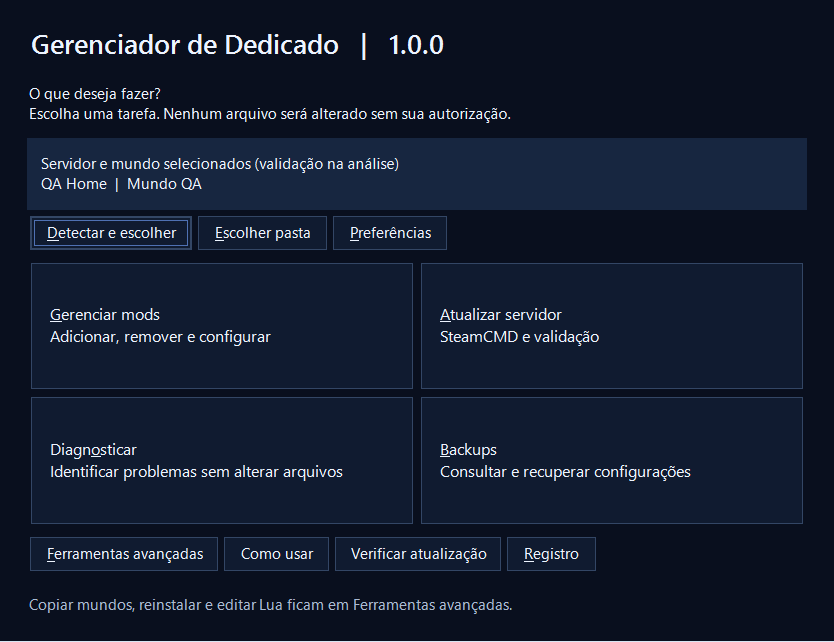
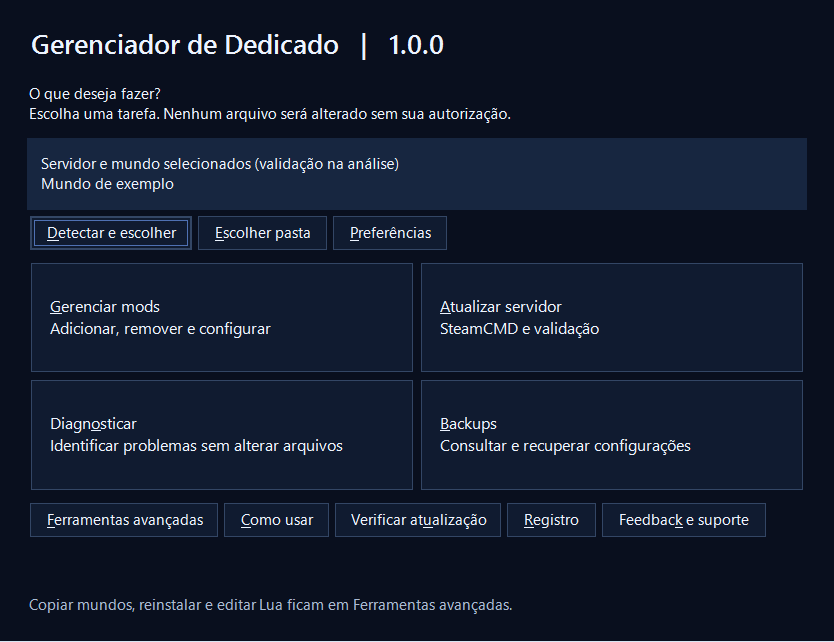
Publicar acessibilidade e feedback comunitário no site (#23)
* Prepare accessible support section and community forms

* Keep support links responsive and skip link keyboard-friendly

* Prepare release links for accessibility and feedback build

---------

diff --git a/docs/index.html b/docs/index.html
@@ -1,8 +1,8 @@
 <!doctype html>
 <html lang="pt-BR"><head><meta charset="utf-8"><meta name="viewport" content="width=device-width,initial-scale=1"><meta name="theme-color" content="#090f1e"><meta name="description" content="Gerenciador de Dedicado 1.0.0 — manutenção de mods de servidores DST para Windows."><title>Gerenciador de Dedicado — 1.0.0</title><link rel="icon" href="icon.svg" type="image/svg+xml"><link rel="stylesheet" href="style.css"></head><body>
-<a class="skip" href="#inicio">Ir para o conteúdo</a><header><div class="wrap nav"><a class="brand" href="#inicio"><img src="icon.svg" width="40" height="40" alt=""><span>Gerenciador de Dedicado<small>DON'T STARVE TOGETHER</small></span></a><nav aria-label="Navegação principal"><a href="#baixar">Download</a><a href="#recursos">Recursos</a><a href="#uso">Guia</a><a href="#faq">Dúvidas</a><a href="https://github.com/efac000/software-dedicado-">GitHub ↗</a></nav></div></header>
-<main id="inicio" class="wrap"><section class="hero"><div><p class="eyebrow">UTILITÁRIO PARA WINDOWS <span class="version">1.0.0</span></p><h1>Seu servidor.<br><span>Seu controle.</span></h1><p class="lead">Escolha uma tarefa para gerenciar mods, atualizar ou diagnosticar seu dedicado de Don't Starve Together. A interface é guiada, com backup e duas confirmações antes de alterações.</p><div class="buttons"><a class="button" href="#baixar">↓ Baixar aplicativo</a><a class="secondary" href="#uso">Como funciona</a></div><p class="muted">Código aberto · .NET autocontido · Windows</p></div>
-<figure class="preview home-preview"><div class="window"><img src="icon.svg" width="28" height="28" alt=""><b>Gerenciador de Dedicado</b><span>1.0.0</span></div><a href="home-dark.png" aria-label="Ampliar captura da tela inicial escura"><img class="app-shot" src="home-dark.png" width="834" height="642" alt="Tela inicial com detecção, seleção de mundo e quatro tarefas: gerenciar mods, atualizar servidor, diagnosticar e backups."></a><figcaption>Captura da interface em ambiente de teste. <a href="home-light.png">Ver tema claro</a></figcaption></figure></section>
+<a class="skip" href="#inicio">Ir para o conteúdo</a><header><div class="wrap nav"><a class="brand" href="#inicio"><img src="icon.svg" width="40" height="40" alt=""><span>Gerenciador de Dedicado<small>DON'T STARVE TOGETHER</small></span></a><nav aria-label="Navegação principal"><a href="#baixar">Download</a><a href="#recursos">Recursos</a><a href="#uso">Guia</a><a href="#feedback">Feedback</a><a href="#faq">Dúvidas</a><a href="https://github.com/efac000/software-dedicado-">GitHub ↗</a></nav></div></header>
+<main id="inicio" class="wrap" tabindex="-1"><section class="hero"><div><p class="eyebrow">UTILITÁRIO PARA WINDOWS <span class="version">1.0.0</span></p><h1>Seu servidor.<br><span>Seu controle.</span></h1><p class="lead">Escolha uma tarefa para gerenciar mods, atualizar ou diagnosticar seu dedicado de Don't Starve Together. A interface é guiada, com backup e duas confirmações antes de alterações.</p><div class="buttons"><a class="button" href="#baixar">↓ Baixar aplicativo</a><a class="secondary" href="#uso">Como funciona</a></div><p class="muted">Código aberto · .NET autocontido · Windows</p></div>
+<figure class="preview home-preview"><div class="window"><img src="icon.svg" width="28" height="28" alt=""><b>Gerenciador de Dedicado</b><span>1.0.0</span></div><a href="home-dark.png" aria-label="Ampliar captura da tela inicial escura"><img class="app-shot" src="home-dark.png" width="834" height="642" alt="Tela inicial com detecção, seleção de mundo, quatro tarefas de manutenção e botão Feedback e suporte."></a><figcaption>Captura da interface com dados ilustrativos. <a href="home-light.png">Ver tema claro</a></figcaption></figure></section>
 <div class="trust"><div><b>01</b> Análise sem alterações</div><div><b>02</b> Backup local</div><div><b>03</b> Confirmação dupla</div><div><b>04</b> Sem reinício automático</div></div>
 <section id="baixar" aria-labelledby="download-title">
   <div class="section-head">
@@ -13,18 +13,18 @@
     <div class="download-main">
       <span class="download-icon" aria-hidden="true">↓</span>
       <div><h3>Windows x64</h3><p>Para a maioria dos PCs Intel e AMD.</p></div>
-      <a id="download" class="button" href="https://github.com/efac000/software-dedicado-/releases/download/1.0.0-build-45679256458-1/Gerenciador-de-Dedicado.exe">Baixar Windows x64</a>
+      <a id="download" class="button" href="https://github.com/efac000/software-dedicado-/releases/download/1.0.0-build-45681754894-1/Gerenciador-de-Dedicado.exe">Baixar Windows x64</a>
     </div>
-    <p class="muted">Build 45679256458-1 — Tela inicial simplificada</p>
+    <p class="muted">Build 45681754894-1 — Acessibilidade e feedback comunitário</p>
     <p id="architecture-hint" class="muted" aria-live="polite">Escolha a arquitetura do seu Windows nas opções abaixo. Você pode conferi-la em Configurações &gt; Sistema &gt; Sobre.</p>
     <div class="alternatives">
       <span>Outras arquiteturas</span>
-      <a class="secondary" href="https://github.com/efac000/software-dedicado-/releases/download/1.0.0-build-45679256458-1/Gerenciador-de-Dedicado-x86.exe">Windows x86 · 32 bits</a>
-      <a class="secondary" href="https://github.com/efac000/software-dedicado-/releases/download/1.0.0-build-45679256458-1/Gerenciador-de-Dedicado-arm64.exe">Windows ARM64</a>
+      <a class="secondary" href="https://github.com/efac000/software-dedicado-/releases/download/1.0.0-build-45681754894-1/Gerenciador-de-Dedicado-x86.exe">Windows x86 · 32 bits</a>
+      <a class="secondary" href="https://github.com/efac000/software-dedicado-/releases/download/1.0.0-build-45681754894-1/Gerenciador-de-Dedicado-arm64.exe">Windows ARM64</a>
     </div>
     <div class="download-links">
-      <a href="https://github.com/efac000/software-dedicado-/releases/download/1.0.0-build-45679256458-1/SHA256.txt">Conferir SHA-256</a>
-      <a href="https://github.com/efac000/software-dedicado-/releases/tag/1.0.0-build-45679256458-1">Ver esta versão no GitHub</a>
+      <a href="https://github.com/efac000/software-dedicado-/releases/download/1.0.0-build-45681754894-1/SHA256.txt">Conferir SHA-256</a>
+      <a href="https://github.com/efac000/software-dedicado-/releases/tag/1.0.0-build-45681754894-1">Ver esta versão no GitHub</a>
       <a href="https://github.com/efac000/software-dedicado-/releases">Todas as versões</a>
     </div>
     <div class="notice">
@@ -32,7 +32,7 @@
       <p>Os executáveis são autocontidos e ainda estão sem assinatura Authenticode. Confira o SHA-256 antes de abrir. Os autotestes e a janela foram executados em Windows ARM64 nativo; a compatibilidade do servidor DST depende do ambiente.</p>
     </div>
     <div class="notice">
-      <strong>Homologação funcional concluída</strong><p>Revisão com tela inicial por tarefas, modos simples e avançado, temas e preferências locais. A base homologada inclui detecção de instalações e mundos locais, recuperação de interrupções, editor de opções, dependências e busca Workshop autenticada. Testes reais de atualização SteamCMD, download de mod, conexão online e migração entre Master e Caves foram aprovados. Consulte o <a href="https://github.com/efac000/software-dedicado-/pull/16">registro de homologação</a> e a <a href="https://github.com/efac000/software-dedicado-/pull/20">revisão de interface</a>.</p>
+      <strong>Homologação funcional concluída</strong><p>Revisão com melhorias de acessibilidade, rolagem adaptativa, atalhos de teclado e feedback comunitário. Inclui tela inicial por tarefas, modos simples e avançado, temas e preferências locais. A base homologada inclui detecção de instalações e mundos locais, recuperação de interrupções, editor de opções, dependências e busca Workshop autenticada. Testes reais de atualização SteamCMD, download de mod, conexão online e migração entre Master e Caves foram aprovados. Consulte o <a href="https://github.com/efac000/software-dedicado-/pull/16">registro de homologação</a> e a <a href="https://github.com/efac000/software-dedicado-/pull/20">revisão de interface</a> e os <a href="https://github.com/efac000/software-dedicado-/pull/22">testes de acessibilidade</a>.</p>
     </div>
   </div>
 </section>
@@ -41,4 +41,4 @@
 <section id="uso"><p class="eyebrow">PRIMEIRO ACESSO</p><h2>Comece em poucos passos.</h2><ol class="steps"><li><div><strong>Abra e localize</strong><p>Use Detectar e escolher para localizar a instalação do dedicado, SteamCMD e mundos. Se houver mais de um, escolha explicitamente. Também é possível informar as pastas manualmente.</p></div></li><li><div><strong>Escolha uma tarefa</strong><p>Gerenciar mods, Atualizar servidor, Diagnosticar ou Backups. Copiar mundos, reinstalar mods e editar Lua ficam em Ferramentas avançadas.</p></div></li><li><div><strong>Revise antes de agir</strong><p>Desligue o servidor, o jogo e qualquer reinício automático antes da manutenção. Analise o destino e confira o plano por Master e Caves.</p></div></li><li><div><strong>Confirme duas vezes</strong><p>Autorize somente uma instalação exclusiva com UGC padrão. O backup e as verificações continuam obrigatórios. Voltar ao início cancela a confirmação anterior.</p></div></li><li><div><strong>Valide antes de reabrir</strong><p>Consulte o registro, preserve o backup e teste a entrada no mundo e nas cavernas.</p></div></li></ol></section>
 <section id="preferencias"><p class="eyebrow">SUA EXPERIÊNCIA</p><h2>Simples por padrão, avançado quando necessário.</h2><div class="cards"><article><span class="feature-num">PREFERÊNCIAS</span><h3>Seus caminhos, seu tema</h3><p>Salve ou esqueça caminhos locais quando quiser. Escolha tema claro, escuro ou automático; reabra o aplicativo para aplicar. Nenhum token ou chave Steam é salvo.</p></article><article><span class="feature-num">ATUALIZAÇÕES</span><h3>Confira a build estável</h3><p>Verifique atualizações manualmente ou ative a consulta ao abrir. Não há instalação silenciosa. O registro local mostra somente a sessão atual.</p></article></div></section>
 <section id="faq"><p class="eyebrow">SUPORTE</p><h2>Perguntas frequentes</h2><div class="faq"><details><summary>Qual arquivo devo baixar?</summary><p>Use x64 na maioria dos PCs. x86 e ARM64 são alternativas quando compatíveis com o sistema e o servidor DST. Windows 7/8, Linux e macOS não são suportados; O aplicativo passou nos autotestes e testes de janela em Windows ARM64 nativo; a compatibilidade do servidor DST depende do ambiente.</p></details><details><summary>O programa apaga meu mundo?</summary><p>O aplicativo não edita saves diretamente e cria um backup. Entretanto, remover mods pode afetar entidades salvas quando o mundo for iniciado. Faça um backup externo e teste antes.</p></details><details><summary>Funciona em instalações compartilhadas?</summary><p>A manutenção automática não aceita instalações compartilhadas, UGC personalizado ou mods locais. Desligue o servidor e qualquer reinício automático.</p></details><details><summary>Preciso de uma chave Steam ou token Klei?</summary><p>Não para o gerenciamento normal de mods. A chave Steam de usuário é opcional para busca global integrada e não é armazenada. O token Klei pertence ao servidor online; mantenha-o privado. O aplicativo não substitui a configuração de rede ou autenticação do dedicado.</p></details><details><summary>Como verificar o SHA-256?</summary><p>Baixe o SHA256.txt do mesmo release e compare com o resultado do PowerShell: <code>Get-FileHash -Algorithm SHA256 .\Gerenciador-de-Dedicado.exe</code>. Um hash não substitui assinatura digital.</p></details><details><summary>Por que a versão permanece 1.0.0?</summary><p>As revisões possuem identificadores de build próprios. Cada versão tem seus próprios arquivos e SHA-256 na página de releases do GitHub. Não há atualização silenciosa.</p></details></div></section>
-<section class="support"><div><p class="eyebrow">PROJETO COMUNITÁRIO</p><h2>Transparência do início ao fim.</h2><p>Consulte o código, acompanhe as builds e relate problemas.</p></div><div class="buttons"><a class="secondary" href="https://github.com/efac000/software-dedicado-">Código-fonte ↗</a><a class="secondary" href="https://github.com/efac000/software-dedicado-/issues">Relatar problema ↗</a></div></section></main><footer class="wrap"><span>Gerenciador de Dedicado · 1.0.0</span><span>Projeto independente. Não afiliado à Klei Entertainment ou à Valve.</span><a href="#inicio">Voltar ao topo ↑</a></footer><script src="architecture.js" defer></script></body></html>
+<section id="acessibilidade"><p class="eyebrow">ACESSIBILIDADE</p><h2>Controle por teclado e janelas menores.</h2><div class="cards"><article><h3>Use Tab e Alt</h3><p>Alterne entre controles com Tab e Shift+Tab. Use Alt e a letra sublinhada para acionar as tarefas. As áreas roláveis permitem alcançar os controles em janelas menores.</p></article><article><h3>Escolha o tema</h3><p>Temas claro, escuro e automático, nomes acessíveis e avisos de estado atualizados. Os testes técnicos incluem contraste, rolagem, teclado e a árvore UI Automation do Windows.</p></article></div><p class="muted">Testes em diferentes tamanhos de janela, a 96 DPI. A leitura em voz alta e monitores de diferentes escalas ainda não foram homologados formalmente.</p></section><section class="support" id="feedback"><div><p class="eyebrow">PROJETO COMUNITÁRIO</p><h2>Ajude a melhorar o Gerenciador.</h2><p>Relate bugs e sugira melhorias de forma gratuita. Os formulários são públicos no GitHub; revise o conteúdo e nunca publique chaves Steam, tokens Klei, senhas ou arquivos privados. Nenhuma informação é enviada automaticamente pelo aplicativo.</p></div><div class="buttons"><a class="secondary" href="https://github.com/efac000/software-dedicado-/issues/new?template=bug.yml">Relatar bug</a><a class="secondary" href="https://github.com/efac000/software-dedicado-/issues/new?template=suggestion.yml">Sugerir melhoria</a><a class="secondary" href="https://github.com/efac000/software-dedicado-/issues">Consultar relatos</a><a class="secondary" href="https://github.com/efac000/software-dedicado-">Código-fonte</a></div></section></main><footer class="wrap"><span>Gerenciador de Dedicado · 1.0.0</span><span>Projeto independente. Não afiliado à Klei Entertainment ou à Valve.</span><a href="#inicio">Voltar ao topo ↑</a></footer><script src="architecture.js" defer></script></body></html>

diff --git a/docs/style.css b/docs/style.css
@@ -2,3 +2,4 @@
 *{box-sizing:border-box}html{scroll-behavior:smooth;scroll-padding-top:24px}body{margin:0;background:radial-gradient(ellipse at 85% 5%,#172a4d 0,transparent 40%),var(--bg);color:var(--text);font:16px/1.65 system-ui,-apple-system,"Segoe UI",sans-serif}a{color:var(--accent);text-underline-offset:4px}button{font:inherit}a:focus-visible,button:focus-visible,summary:focus-visible{outline:3px solid var(--focus);outline-offset:4px}[hidden]{display:none!important}.skip{position:absolute;left:16px;top:-90px;padding:12px;background:var(--text);color:var(--bg);z-index:20}.skip:focus{top:12px}.wrap{width:min(1160px,calc(100% - 48px));margin-inline:auto}header{background:#090f1ee8;border-bottom:1px solid var(--border)}.nav{display:flex;justify-content:space-between;align-items:center;gap:16px;padding:18px 0;flex-wrap:wrap}.brand{display:flex;gap:12px;align-items:center;font-weight:760;line-height:1.2;text-decoration:none;color:var(--text)}.brand small{display:block;font-size:.64rem;color:var(--muted);letter-spacing:.12em;margin-top:5px}nav{display:flex;gap:24px;flex-wrap:wrap}nav a{font-size:.9rem;color:var(--muted);text-decoration:none;padding:8px 0}nav a:hover{color:var(--accent)}.hero{display:grid;grid-template-columns:1fr .94fr;align-items:center;gap:56px;padding:82px 0 44px}.eyebrow{font-size:.72rem;letter-spacing:.13em;font-weight:750;color:var(--accent);margin:0 0 14px}.version{display:inline-flex;font-size:.72rem;letter-spacing:.025em;color:var(--violet);border:1px solid #53618d;background:#232d50;border-radius:100px;padding:4px 10px;margin-left:5px;white-space:nowrap}h1{font-size:clamp(3rem,6.7vw,5.25rem);line-height:1.02;letter-spacing:-.055em;margin:18px 0 24px}h1 span{color:var(--accent)}.lead{font-size:clamp(1rem,2vw,1.2rem);max-width:550px;color:var(--muted)}.buttons{display:flex;gap:12px;flex-wrap:wrap;margin-top:26px}.button,.secondary{display:inline-flex;align-items:center;justify-content:center;min-height:48px;padding:11px 20px;border-radius:10px;font-size:.93rem;font-weight:740;text-decoration:none;transition:background .16s ease,border-color .16s ease}.button{background:var(--accent);border:1px solid var(--accent);color:#081627}.button:hover:not(.disabled){background:#a3e6ff}.secondary{border:1px solid #506486;color:var(--text);background:#17264055}.secondary:hover{background:var(--raised);border-color:var(--accent)}.disabled{background:#23344f;border-color:var(--border);color:var(--muted);cursor:not-allowed}.muted{font-size:.85rem;color:var(--muted);overflow-wrap:anywhere}.preview,.download,.cards article,.faq,.support{background:linear-gradient(145deg,#15233a,var(--surface));border:1px solid var(--border);border-radius:var(--radius)}.preview,.download{box-shadow:0 20px 60px #03071266}.preview{overflow:hidden}.window{display:flex;align-items:center;gap:10px;padding:15px 20px;background:#0d172a;border-bottom:1px solid var(--border);font-size:.82rem}.window span{margin-left:auto;color:var(--muted);font-size:.72rem}.inside{padding:24px}.clusters{display:grid;grid-template-columns:repeat(2,minmax(0,1fr));gap:10px;margin:18px 0}.clusters>div{background:#0c1629;border:1px solid var(--border);border-radius:12px;padding:13px;min-width:0}.clusters small,.clusters span{display:block;color:var(--muted);font-size:.72rem}.clusters strong{display:block;font-size:1.15rem;margin:4px 0}.mock-table{border:1px solid var(--border);border-radius:10px;overflow:hidden}.mod{display:flex;justify-content:space-between;align-items:center;gap:12px;padding:10px 12px;font-size:.85rem;border-bottom:1px solid var(--border)}.mod:last-child{border:0}.mod small{color:var(--muted);font-variant-numeric:tabular-nums}.heading{font-size:.64rem;letter-spacing:.06em;background:#0c1629;color:var(--muted);font-weight:700}.secure{color:var(--accent);font-size:.82rem;margin:16px 0 4px}.trust{display:grid;grid-template-columns:repeat(4,1fr);border-block:1px solid var(--border);padding:19px 0;gap:12px;margin-bottom:22px;color:var(--muted);font-size:.83rem}.trust b{color:var(--accent);margin-right:5px}section{padding:48px 0 22px}.section-head{display:flex;align-items:end;justify-content:space-between;gap:16px;flex-wrap:wrap;margin-bottom:20px}h2{font-size:clamp(1.7rem,3.7vw,2.55rem);line-height:1.16;letter-spacing:-.035em;margin:0 0 24px}.section-head h2{margin:0}h3{font-size:1.18rem;margin:10px 0 6px;line-height:1.35}.download{padding:26px}.download-main{display:grid;grid-template-columns:auto 1fr auto;align-items:center;gap:16px}.download-icon{display:grid;place-items:center;width:54px;height:54px;border-radius:13px;background:#203856;color:var(--accent);font-size:1.8rem}.download-main h3{margin:0}.download-main p{margin:3px 0;color:var(--muted);font-size:.9rem}.alternatives{display:flex;align-items:center;gap:10px;flex-wrap:wrap;padding:14px 0;border-top:1px solid var(--border)}.alternatives>span{font-size:.82rem;color:var(--muted)}.alternatives .secondary{font-size:.82rem;min-height:44px;padding:8px 13px}.download-links{display:flex;flex-wrap:wrap;gap:12px 20px;padding:13px 0;font-size:.85rem}.text-button{color:var(--accent);background:none;border:0;text-decoration:underline;text-underline-offset:4px;padding:0;cursor:pointer}.notice{margin-top:14px;background:#202c46;border:1px solid #52618a;border-left:3px solid var(--violet);border-radius:10px;padding:14px 16px;color:#e2e9ff;font-size:.9rem}.notice p{margin:4px 0 0}.cards{display:grid;grid-template-columns:repeat(2,minmax(0,1fr));gap:16px}.cards article{padding:24px;min-height:148px}.feature-num{font-size:.7rem;color:var(--accent);font-weight:750;letter-spacing:.09em}.cards p,.steps p,.faq p,.support p{color:var(--muted);margin:6px 0 0}.steps{list-style:none;counter-reset:steps;margin:0;padding:0;display:grid;gap:10px}.steps li{counter-increment:steps;display:flex;align-items:flex-start;gap:18px;padding:16px 20px;border:1px solid var(--border);background:var(--surface);border-radius:12px}.steps li::before{content:counter(steps,decimal-leading-zero);color:var(--accent);font-size:.85rem;font-weight:800;padding:4px 8px;border-radius:7px;background:#203856;flex:none}.faq{overflow:hidden}.faq details{border-bottom:1px solid var(--border);padding:0 20px}.faq details:last-child{border:0}.faq summary{cursor:pointer;font-weight:680;padding:17px 0}.faq details p{margin:0 0 18px;overflow-wrap:anywhere}.faq code{color:var(--accent);font-size:.83rem}.support{margin:48px 0 32px;padding:28px;display:flex;align-items:center;justify-content:space-between;gap:24px}.support h2{margin:0;font-size:1.65rem}.support .buttons{margin:0;flex-shrink:0}footer{display:flex;align-items:center;justify-content:space-between;gap:16px;flex-wrap:wrap;border-top:1px solid var(--border);padding:24px 0 36px;color:var(--muted);font-size:.79rem}
 @media(max-width:900px){.hero{gap:32px}.trust{grid-template-columns:repeat(2,1fr)}.support{align-items:flex-start;flex-direction:column}nav{gap:18px}}@media(max-width:700px){.wrap{width:calc(100% - 32px)}.nav{gap:12px;padding:14px 0}nav{width:100%;gap:8px 17px}nav a{min-height:44px;display:inline-flex;align-items:center}.hero{grid-template-columns:1fr;gap:28px;padding:42px 0 30px}.hero h1{font-size:clamp(2.8rem,12vw,4rem)}.hero .buttons a{flex:1 1 150px}section{padding:36px 0 12px}.cards{grid-template-columns:1fr}.download{padding:18px}.download-main{grid-template-columns:auto 1fr;gap:12px}.download-main .button{grid-column:1/-1}.inside{padding:16px}.support{padding:20px;margin-top:34px}.trust{font-size:.75rem}.clusters>div{padding:10px}.clusters strong{font-size:1rem}}@media(max-width:360px){.wrap{width:calc(100% - 24px)}.window{padding:12px}.window b{font-size:.73rem}.mod{font-size:.75rem;padding:9px}.trust,.clusters{grid-template-columns:1fr}nav{gap:6px 12px}.support .buttons a{width:100%}}@media(prefers-reduced-motion:reduce){html{scroll-behavior:auto}*,*::before,*::after{transition:none!important;animation:none!important}}
 .home-preview{margin:0}.home-preview a{display:block}.home-preview .app-shot{display:block;width:100%;height:auto}.home-preview figcaption{padding:12px 16px;font-size:.85rem;color:var(--muted)}.home-preview figcaption a{display:inline}.home-preview>a:focus-visible{outline-offset:-4px}
+#feedback{align-items:flex-start}#feedback .buttons{flex:1 1 280px;min-width:0}#feedback>div:first-child{flex:1 1 420px}#feedback .buttons a{flex:1 1 150px;text-align:center}@media(max-width:900px){#feedback>div:first-child,#feedback .buttons{flex:0 1 auto;width:100%}}
